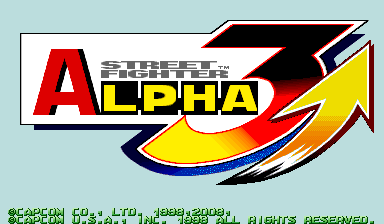
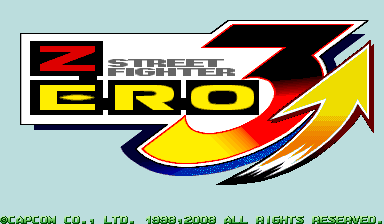
sfa3-upper-cps2: list the page with the USA title screen
Swaps the title pair to Japan then USA, so the site listing uses the USA title. Page-only; no download changes.

Changed region(s): [[0.0625, 0.1562, 0.6875, 0.5312], [0.0, 0.9062, 1.0, 1.0]]

diff --git a/docs/sfa3-upper-cps2/index.html b/docs/sfa3-upper-cps2/index.html
@@ -20,7 +20,7 @@
 <meta property="og:title" content="Street Fighter Alpha 3 Upper (CPS-2)">
 <meta property="og:description" content="Upper on CPS-2, with Guile, Fei Long, Dee Jay, T. Hawk, Evil Ryu and Shin Akuma, in USA (English) and Japan builds.">
 <meta property="og:url" content="https://arcadepatches.com/sfa3-upper-cps2/">
-<meta property="og:image" content="https://arcadepatches.com/img/social/sfa3-upper-cps2-ea03af5f1b.png">
+<meta property="og:image" content="https://arcadepatches.com/img/social/sfa3-upper-cps2-af687a88bd.png">
 <meta property="og:image:width" content="1200">
 <meta property="og:image:height" content="630">
 <meta property="og:image:alt" content="Street Fighter Alpha 3 Upper (CPS-2)">
@@ -28,7 +28,7 @@
 <meta name="twitter:site" content="@ArcadePatches">
 <meta name="twitter:title" content="Street Fighter Alpha 3 Upper (CPS-2)">
 <meta name="twitter:description" content="Upper on CPS-2, with Guile, Fei Long, Dee Jay, T. Hawk, Evil Ryu and Shin Akuma, in USA (English) and Japan builds.">
-<meta name="twitter:image" content="https://arcadepatches.com/img/social/sfa3-upper-cps2-ea03af5f1b.png">
+<meta name="twitter:image" content="https://arcadepatches.com/img/social/sfa3-upper-cps2-af687a88bd.png">
 <link rel="icon" href="../favicon.png" type="image/png" sizes="64x64">
 <link rel="alternate icon" href="../favicon.ico" sizes="16x16 32x32 48x48">
 <link rel="apple-touch-icon" href="../apple-touch-icon.png">
@@ -52,7 +52,7 @@
 <div class="badges"><span class="badge release-candidate">Release candidate</span><span class="badge plain">rc1</span><span class="badge plain">Capcom CPS-2 with the CPS+ core</span></div>
 <dl class="meta"><dt>Game</dt><dd>Street Fighter Alpha / Zero 3 Upper</dd><dt>Hardware</dt><dd>Capcom CPS-2 with the CPS+ core</dd><dt>MAME set</dt><dd>sfa3up / sfz3up</dd><dt>Version</dt><dd>rc1</dd><dt>Updated</dt><dd>2026-11-04</dd></dl>
 <h2>Screenshots</h2>
-<figure class="shot"><div class="pair"><div><p class="label">USA</p><img src="../img/sfa3-upper-cps2/00_before.png?v=f929c86c92" alt="USA: The USA and Japanese title screens."></div><div><p class="label">Japan</p><img src="../img/sfa3-upper-cps2/00_after.png?v=8e9ef957c9" alt="Japan: The USA and Japanese title screens."></div></div><figcaption>The USA and Japanese title screens.</figcaption></figure>
+<figure class="shot"><div class="pair"><div><p class="label">Japan</p><img src="../img/sfa3-upper-cps2/00_before.png?v=8e9ef957c9" alt="Japan: The Japanese and USA title screens."></div><div><p class="label">USA</p><img src="../img/sfa3-upper-cps2/00_after.png?v=f929c86c92" alt="USA: The Japanese and USA title screens."></div></div><figcaption>The Japanese and USA title screens.</figcaption></figure>
 <figure class="shot single"><img src="../img/sfa3-upper-cps2/01_single.png?v=4d90842ce6" alt="Choose from the expanded Upper roster."><figcaption>Choose from the expanded Upper roster.</figcaption></figure>
 <figure class="shot single"><img src="../img/sfa3-upper-cps2/02_single.png?v=4318d2bcb7" alt="Guile and Fei Long on Guile’s stage."><figcaption>Guile and Fei Long on Guile’s stage.</figcaption></figure>
 <h2>About this patch</h2>

diff --git a/docs/index.html b/docs/index.html
@@ -222,7 +222,7 @@
     <p class="summary">Upper on CPS-2, with Guile, Fei Long, Dee Jay, T. Hawk, Evil Ryu and Shin Akuma, in USA (English) and Japan builds.</p>
     <div class="updated">rc1 · Updated <time datetime="2026-11-04">2026-11-04</time></div>
   </div>
-  <img class="thumb" src="img/sfa3-upper-cps2/00_after.png?v=8e9ef957c9" alt="Street Fighter Alpha 3 Upper (CPS-2) screenshot">
+  <img class="thumb" src="img/sfa3-upper-cps2/00_after.png?v=f929c86c92" alt="Street Fighter Alpha 3 Upper (CPS-2) screenshot">
 </a><a class="card" href="sfz2al-restoration/">
   <div>
     <h2>Street Fighter Zero 2 Alpha</h2>
